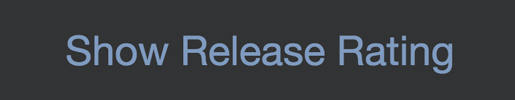
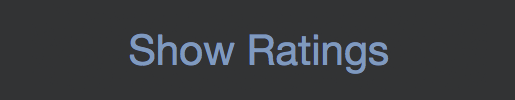
Only show vote stats

Changed region(s): [[0.1243, 0.33, 0.901, 0.75]]

diff --git a/html/about.html b/html/about.html
@@ -37,10 +37,10 @@
               <div class="title center" id="top">
                 <p class="version version-header"></p>
                   <div class="update-wrap">
-                   <!-- <p> -->
-                  <p id="didUpdate" class="near-mint">NEW UPDATES:
+                   <p>
+                  <!-- <p id="didUpdate" class="near-mint">NEW UPDATES: -->
                     <ul>
-                      <li><span class="near-mint">New Feature: Marketplace Release Ratings</span></li>
+                      <li><span class="near-mint">New Feature: Marketplace Ratings</span></li>
                       <li>Lots of fixes for small issues with the Dark Theme</li>
                       <li>Text Format Shortcuts should show up more reliably now</li>
                       <li>Fixed the console error with Notes Counter</li>
@@ -205,13 +205,13 @@
                 <p class="content"></p>
 
                 <!-- Marketplace Release Ratings -->
-                <p class="bold feature" id="releaseRatings">Marketplace Release Ratings <span class="bold near-mint">(New!)</span></p>
+                <p class="bold feature" id="releaseRatings">Marketplace Ratings <span class="bold near-mint">(New!)</span></p>
 
-                <p>This will allow you to see the release's rating along with the number of votes received within the Marketplace results. If you've ever found yourself browsing another seller's inventory for other items you might want that aren't on your Wantlist, you can use this feature to see a release's rating info without having to open another page.</p>
+                <p>This will allow you to see the number of votes the release has received within the Marketplace results. If you've ever found yourself browsing another seller's inventory for other items you might want that aren't on your Wantlist, you can use this feature to see a release's rating stat without having to open another page.</p>
 
                 <img src="../img/about/release-rating-link.png" class="price-example" />
 
-                <p>To see ratings, simply click the link that says "Show Release Rating". It will be located above the "View Release Page" link on each release listing.</p>
+                <p>To see ratings, simply click the link that says "Show Ratings". It will be located above the "View Release Page" link on each release listing.</p>
 
                 <img src="../img/about/release-rating-1.png" class="max-width" />
 

diff --git a/js/extension/features/release-ratings.js b/js/extension/features/release-ratings.js
@@ -81,13 +81,14 @@ $(document).ready(function() {
       success: res => {
 
         let result = $(res),
-            ratingInfo = result.find('.release_info_buttons div').html();
+            ratingInfo = result.find('.statistics ul:first-of-type li:last-child').text();
 
         parent.closest( $('.preloader').remove() );
 
         parent.append(ratingInfo);
       },
 
+      // TODO render this error into the DOM for the user
       error: () => console.log('Discogs Enhancer: Cannot get release ratings.')
     });
   }
@@ -114,9 +115,9 @@ $(document).ready(function() {
       div.className = 'de-rating-link-wrap';
 
       a.className = 'de-rating-link';
-      a.dataset.id = $(parent).find('.item_description_title').attr('href');
+      a.dataset.id = $(release).attr('href');
       a.style = 'display:block;';
-      a.textContent = 'Show Release Rating';
+      a.textContent = 'Show Ratings';
 
       div.append(a);
 

diff --git a/html/popup.html b/html/popup.html
@@ -966,10 +966,10 @@
       </div>
     </div>
 
-    <!-- Marketplace release ratings -->
+    <!-- Marketplace ratings -->
     <div class="toggle-group">
-      <p class="label">Marketplace Release ratings</p>
-      <div class="meta hide">Release ratings marketplace</div>
+      <p class="label">Marketplace ratings</p>
+      <div class="meta hide">marketplace ratings votes</div>
 
       <div class="onoffswitch">
           <input type="checkbox" name="onoffswitch" class="onoffswitch-checkbox" id="toggleReleaseRatings" checked>
